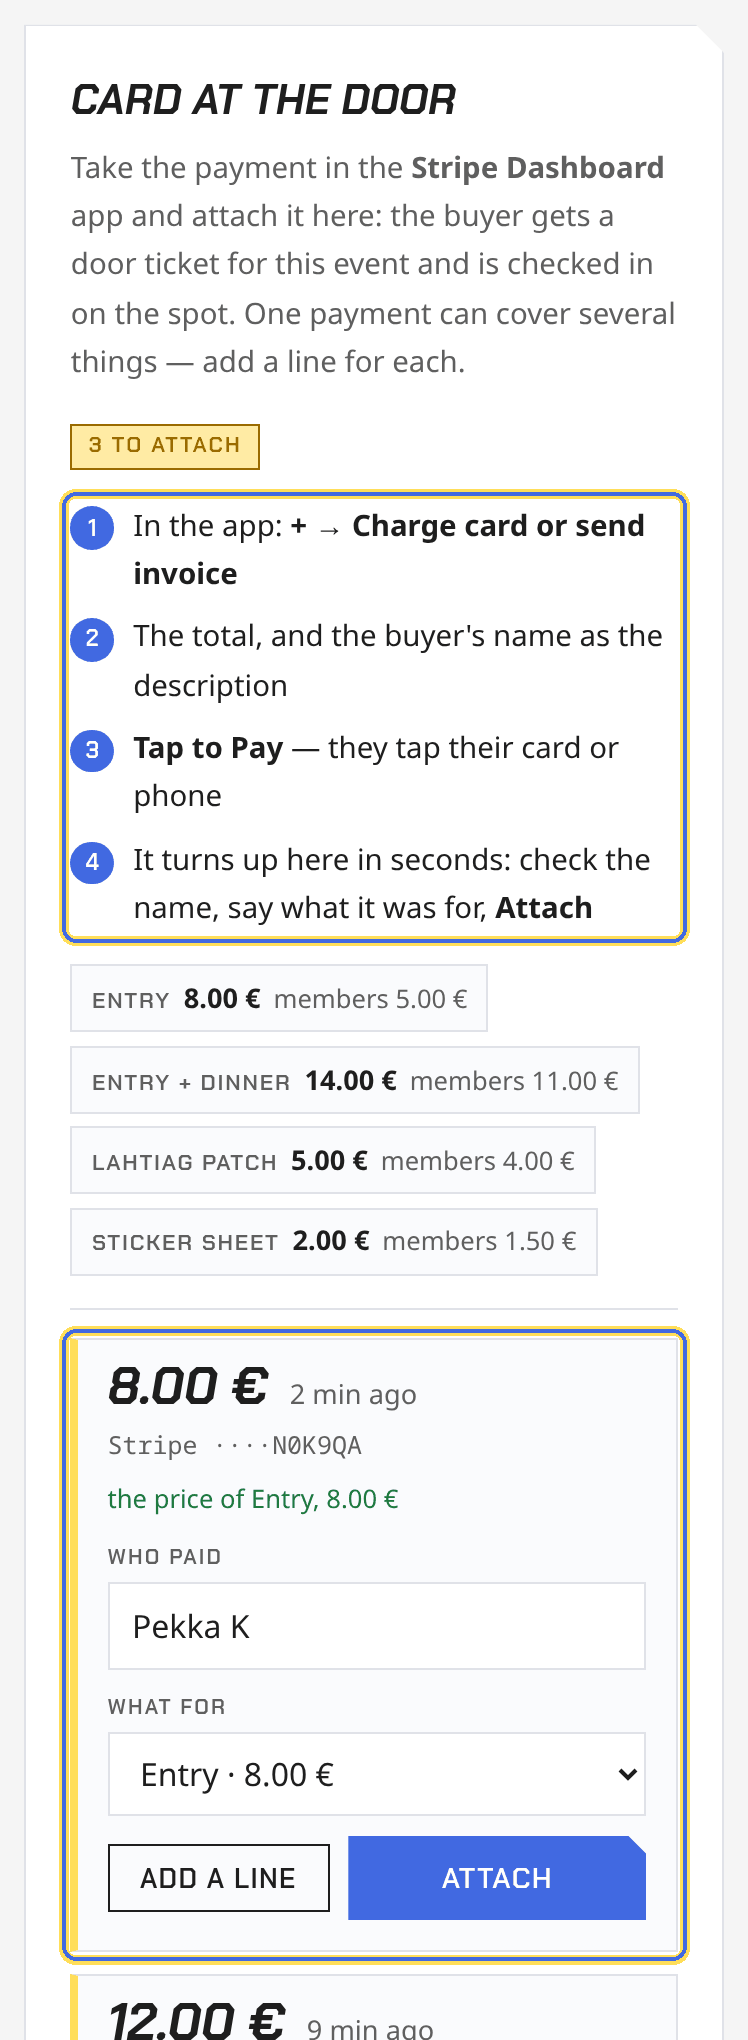
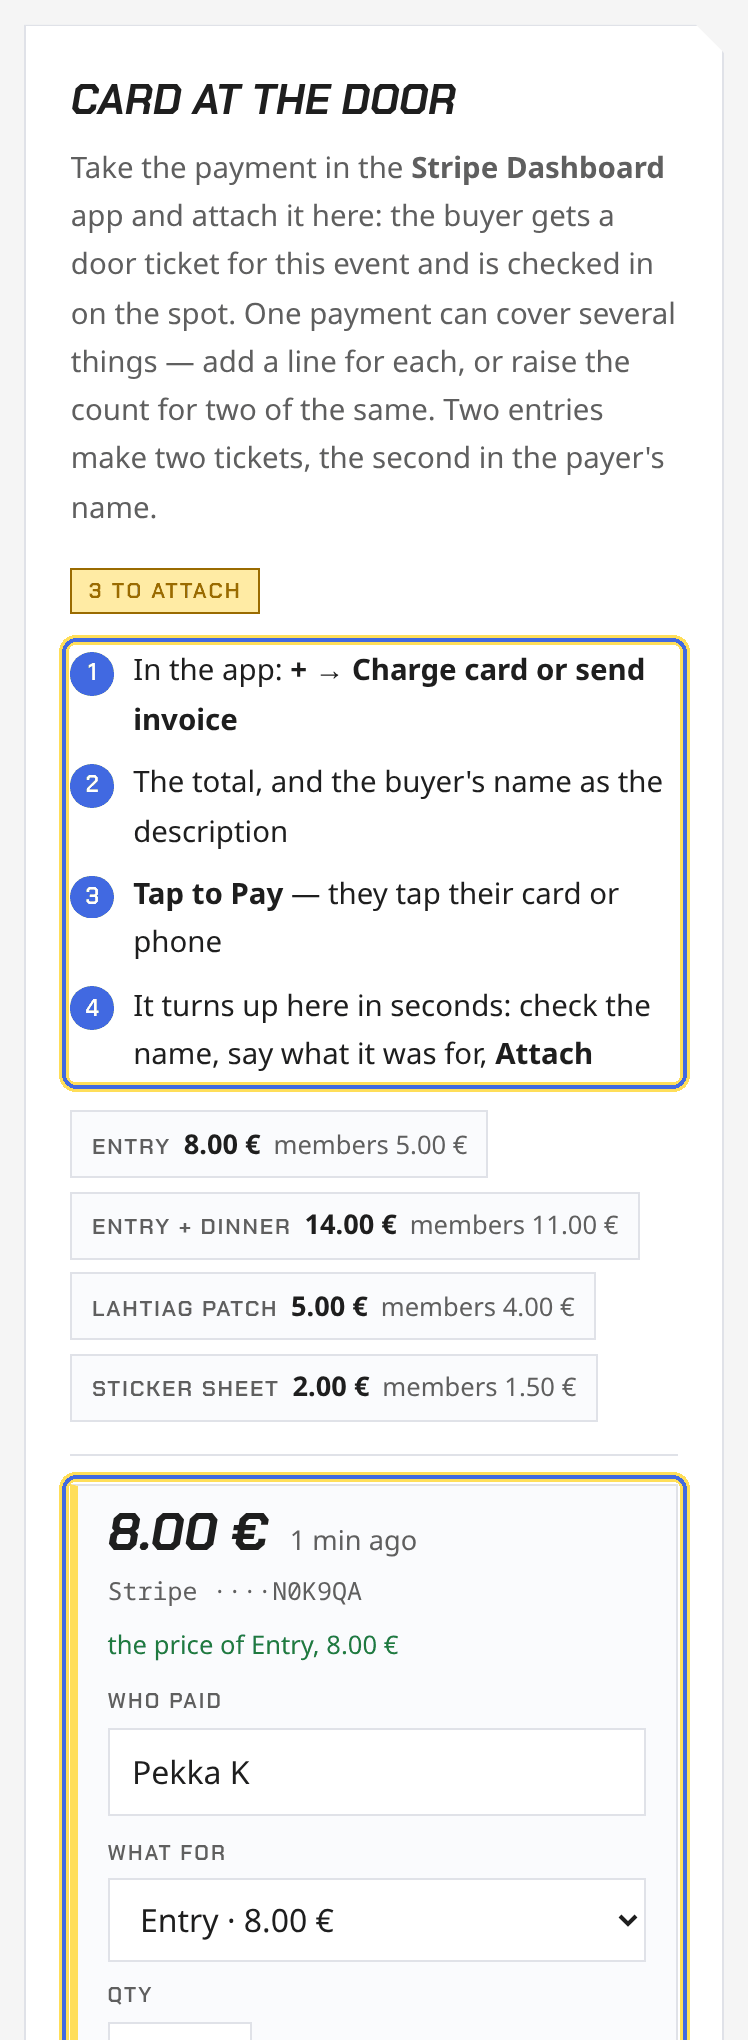
Two of the same on one line, at the price the board picked
"Two entries" was two lines; it is now a count on one, and the extras are
named after whoever paid (Leo H, Leo H +1) for the friend whose name
nobody wrote down. Ticket lines keep the count the item lines already had,
the running total multiplies by it, and a further ticket line still asks
for that person's name when it is known.

The members' price was already there and is worth saying out loud: every
price is its own choice in the list — "Entry · 8.00 €" and "Entry ·
members 5.00 €" — so a member's entry at the door is picked, not typed,
and the ticket records what was really charged. Two member entries and a
sticker sheet on one 12 € tap come out as two 5.00 € tickets, both checked
in, and a 2.00 € item handed over.

Claude-Session: https://claude.ai/code/session_019m4NkzFyEy3cwdh3cuTmAt

Changed region(s): [[0.0615, 0.1544, 0.9225, 1.0], [0.7995, 0.1544, 0.8302, 0.1853]]

diff --git a/test/purchases.test.ts b/test/purchases.test.ts
@@ -409,7 +409,7 @@ describe('a tapped payment for several things', () => {
     // An entry and a patch in one tap: a ticket at its price, a purchase for the rest.
     await recordDoorPayment(db(), 'pi_both', 1300, NOW, 'Pekka K');
     const both = await attach('pi_both', [
-      { kind: 'ticket', typeId, name: '', members: false },
+      { kind: 'ticket', typeId, name: '', members: false, quantity: 1 },
       { kind: 'item', productId: patchId, quantity: 1, members: false },
     ]);
     expect(both.tickets).toHaveLength(1);
@@ -424,8 +424,8 @@ describe('a tapped payment for several things', () => {
     // Two people, one card: a ticket each, the second by name.
     await recordDoorPayment(db(), 'pi_two', 1600, NOW, 'Pekka K');
     const two = await attach('pi_two', [
-      { kind: 'ticket', typeId, name: '', members: false },
-      { kind: 'ticket', typeId, name: ' Sanna  R ', members: false },
+      { kind: 'ticket', typeId, name: '', members: false, quantity: 1 },
+      { kind: 'ticket', typeId, name: ' Sanna  R ', members: false, quantity: 1 },
     ]);
     expect(two.tickets.map((t) => [t.holder_name, t.amount_cents])).toEqual([
       ['Pekka K', 800],
@@ -433,12 +433,25 @@ describe('a tapped payment for several things', () => {
     ]);
     expect(two.purchase).toBeNull();
 
+    // Two of the same, no second name given: the extra is the payer's.
+    await recordDoorPayment(db(), 'pi_pair', 1600, NOW, 'Leo H');
+    const pair = await attach('pi_pair', [{ kind: 'ticket', typeId, name: '', members: false, quantity: 2 }], 'Leo H');
+    expect(pair.tickets.map((t) => [t.holder_name, t.amount_cents])).toEqual([
+      ['Leo H', 800],
+      ['Leo H +1', 800],
+    ]);
+
+    // Two at the members' price, and the money still decides the total.
+    await recordDoorPayment(db(), 'pi_pair_m', 1000, NOW, 'Iida J');
+    const members = await attach('pi_pair_m', [{ kind: 'ticket', typeId, name: '', members: true, quantity: 2 }], 'Iida J');
+    expect(members.tickets.map((t) => t.amount_cents)).toEqual([500, 500]);
+
     // A members' price picked per line, and a total the list does not
     // reach: the difference lands on the first line, so the books match
     // the money Stripe took.
     await recordDoorPayment(db(), 'pi_member', 800, NOW, 'Iida J');
     const mixed = await attach('pi_member', [
-      { kind: 'ticket', typeId, name: '', members: true },
+      { kind: 'ticket', typeId, name: '', members: true, quantity: 1 },
       { kind: 'item', productId: patchId, quantity: 1, members: true },
     ], 'Iida J');
     expect(mixed.tickets[0].amount_cents).toBe(400); // 500 + 400 charged as 800
@@ -450,7 +463,7 @@ describe('a tapped payment for several things', () => {
     await expect(attach('pi_empty', [])).rejects.toMatchObject({ code: 'bad_input' });
     // A ticket type from another event is not this event's to sell.
     const other = await createTicketType(db(), await event(), { name: 'Elsewhere', price_cents: 500, member_price_cents: null, members_only: false, quantity: null, sales_close_at: null });
-    await expect(attach('pi_empty', [{ kind: 'ticket', typeId: other, name: '', members: false }])).rejects.toMatchObject({ code: 'missing' });
+    await expect(attach('pi_empty', [{ kind: 'ticket', typeId: other, name: '', members: false, quantity: 1 }])).rejects.toMatchObject({ code: 'missing' });
     expect((await listUnattachedDoorPayments(db(), NOW - 3600)).map((p) => p.stripe_payment_intent)).toEqual(['pi_empty']);
   });
 });

diff --git a/src/lib/purchases.ts b/src/lib/purchases.ts
@@ -496,7 +496,7 @@ export async function pendingPurchaseFor(db: D1Database, discordId: string, now:
 // those prices and the money goes on the first line, so the books add up
 // to what Stripe actually took.
 export type DoorLine =
-  | { kind: 'ticket'; typeId: number; name: string; members: boolean }
+  | { kind: 'ticket'; typeId: number; name: string; members: boolean; quantity: number }
   | { kind: 'item'; productId: number; quantity: number; members: boolean };
 
 export interface DoorAttachment {
@@ -518,7 +518,8 @@ export async function attachDoorPayment(
   if (!payment) throw new RuleError('missing', 'No unattached payment with that id.');
   if (input.lines.length === 0) throw new RuleError('bad_input', 'Say what the payment was for.');
   const buyerName = input.buyerName.replace(/\s+/g, ' ').trim().slice(0, 60) || 'Door sale';
-  const single = input.lines.length === 1;
+  const pieces = input.lines.reduce((sum, line) => sum + Math.max(1, line.quantity), 0);
+  const single = pieces === 1;
 
   // Everything is resolved and priced before anything is written.
   const planned: ({ cents: number } & (
@@ -530,8 +531,14 @@ export async function attachDoorPayment(
     if (line.kind === 'ticket') {
       const type = await getTicketType(db, line.typeId);
       if (!type || (input.eventId !== null && type.event_id !== input.eventId)) throw new RuleError('missing', 'No such ticket type on this event.');
+      if (!Number.isInteger(line.quantity) || line.quantity < 1) throw new RuleError('bad_input', 'Quantity is at least 1.');
       const list = line.members && type.member_price_cents !== null ? type.member_price_cents : type.price_cents;
-      planned.push({ kind: 'ticket', type, name: line.name.trim() || buyerName, cents: single ? payment.amount_cents : list });
+      const name = line.name.trim() || buyerName;
+      // Two entries on one card: one ticket each, the extras named after
+      // the person who paid for them, so the door list stays readable.
+      for (let i = 0; i < line.quantity; i++) {
+        planned.push({ kind: 'ticket', type, name: i === 0 ? name : `${name} +${i}`, cents: single ? payment.amount_cents : list });
+      }
       continue;
     }
     const product = await getProduct(db, line.productId, now);

diff --git a/test/tickets.test.ts b/test/tickets.test.ts
@@ -245,14 +245,14 @@ describe('ticket lifecycle', () => {
     await recordDoorPayment(db(), 'pi_tap', 1000, NOW, '  Walk  In ');
     await recordDoorPayment(db(), 'pi_tap', 1000, NOW); // idempotent
     expect((await listUnattachedDoorPayments(db(), NOW - 3600)).map((p) => [p.stripe_payment_intent, p.note])).toEqual([['pi_tap', 'Walk In']]);
-    const attached = await attachDoorPayment(db(), 'pi_tap', { eventId: id, lines: [{ kind: 'ticket', typeId, name: 'Walk In', members: false }], buyerName: 'Walk In', by: 'board@x' }, NOW + 5);
+    const attached = await attachDoorPayment(db(), 'pi_tap', { eventId: id, lines: [{ kind: 'ticket', typeId, name: 'Walk In', members: false, quantity: 1 }], buyerName: 'Walk In', by: 'board@x' }, NOW + 5);
     const ticket = attached.tickets[0];
     // One line takes the whole payment, whatever the list says.
     expect(ticket).toMatchObject({ status: 'paid', source: 'door', holder_name: 'Walk In', stripe_payment_intent: 'pi_tap', amount_cents: 1000 });
     expect(attached.purchase).toBeNull();
     expect(await listUnattachedDoorPayments(db(), NOW - 3600)).toEqual([]);
     await expect(
-      attachDoorPayment(db(), 'pi_tap', { eventId: id, lines: [{ kind: 'ticket', typeId, name: 'Again', members: false }], buyerName: 'Again', by: 'board@x' }, NOW),
+      attachDoorPayment(db(), 'pi_tap', { eventId: id, lines: [{ kind: 'ticket', typeId, name: 'Again', members: false, quantity: 1 }], buyerName: 'Again', by: 'board@x' }, NOW),
     ).rejects.toMatchObject({ code: 'missing' });
     // deleting the event takes its tickets, types and door payments with it
     await deleteEvent(db(), id);

diff --git a/src/lib/door.ts b/src/lib/door.ts
@@ -1,8 +1,8 @@
 // The door's attach form, read and reported. One payment can pay for
 // several things, so the form posts a line per thing: what it was
 // (`ticket:<id>`, `ticket:<id>:m` for the members' price, `item:<id>`,
-// `item:<id>:m`), a name for a ticket and a quantity for an item. The
-// shop's own page posts item lines only.
+// `item:<id>:m`), how many, and a name for the tickets. The shop's own
+// page posts item lines only.
 import type { DoorLine, DoorAttachment } from './purchases';
 
 export const MAX_DOOR_LINES = 8;
@@ -17,10 +17,10 @@ export function doorLines(form: FormData, buyerName: string, itemsOnly = false):
     const id = Number(idText);
     if (!Number.isInteger(id) || id < 1 || lines.length >= MAX_DOOR_LINES) return;
     const members = variant === 'm';
+    const quantity = Math.min(10, Math.max(1, Math.floor(Number(quantities[i])) || 1));
     if (kind === 'ticket' && !itemsOnly) {
-      lines.push({ kind: 'ticket', typeId: id, name: (names[i] ?? '').replace(/\s+/g, ' ').trim() || buyerName, members });
+      lines.push({ kind: 'ticket', typeId: id, name: (names[i] ?? '').replace(/\s+/g, ' ').trim() || buyerName, members, quantity });
     } else if (kind === 'item') {
-      const quantity = Math.min(10, Math.max(1, Math.floor(Number(quantities[i])) || 1));
       lines.push({ kind: 'item', productId: id, quantity, members });
     }
   });

diff --git a/test/door.test.ts b/test/door.test.ts
@@ -23,8 +23,14 @@ describe('the lines of an attach form', () => {
       'Pekka K',
     );
     expect(lines).toEqual([
-      { kind: 'ticket', typeId: 3, name: 'Pekka K', members: false },
+      { kind: 'ticket', typeId: 3, name: 'Pekka K', members: false, quantity: 1 },
       { kind: 'item', productId: 7, quantity: 3, members: true },
+    ]);
+  });
+
+  it('counts two of the same on one line', () => {
+    expect(doorLines(form([['line_what', 'ticket:3'], ['line_name', ''], ['line_qty', '2']]), 'Pekka K')).toEqual([
+      { kind: 'ticket', typeId: 3, name: 'Pekka K', members: false, quantity: 2 },
     ]);
   });
 
@@ -47,7 +53,7 @@ describe('the lines of an attach form', () => {
       'Pekka K',
     );
     expect(lines).toEqual([
-      { kind: 'ticket', typeId: 3, name: 'Sanna R', members: true },
+      { kind: 'ticket', typeId: 3, name: 'Sanna R', members: true, quantity: 1 },
       { kind: 'item', productId: 7, quantity: 10, members: false },
     ]);
   });

diff --git a/docs/OPERATIONS.md b/docs/OPERATIONS.md
@@ -720,17 +720,21 @@ appears for a shop item.
 
 **One tap, several things.** A payment can pay for more than one thing —
 an entry and a patch, two entries for two people, three sticker sheets and
-a hoodie. **Add a line** gives the payment another line: what it was (every
-price is its own choice in the list, the members' price included), a name
-for a ticket line beyond the first, a quantity for an item line. The line
-total is shown against what was charged, so a mistyped quantity is visible
-before anything is attached. Attaching then makes a door ticket per ticket
-line (each checked in, named) and one paid purchase holding the item lines,
+a hoodie. Every line has what it was and how many: **every price is its own
+choice in the list**, the members' price included, so a member's entry at
+the door is picked, not typed. **Add a line** gives the payment another
+line, and a further ticket line asks for that person's name. A count of two
+on one ticket line is two tickets, the extras named after the payer (`Leo
+H`, `Leo H +1`), for the friend whose name nobody wrote down. The line
+total is shown against what was charged, so a mistyped count is visible
+before anything is attached. Attaching makes a door ticket per ticket
+(each checked in, named) and one paid purchase holding the item lines,
 handed over on the spot; both hang off the same payment. Without
 JavaScript the form keeps its single line, which is the everyday case.
 
-The money is the last word: with one line, that line is worth the whole
-payment (a member's price the board typed by hand included). With several,
+The money is the last word: a payment for a single ticket or piece is
+worth the whole payment, whatever the list says (an odd amount the board
+typed by hand included). With several,
 each line is worth the price picked, and whatever they miss the payment by
 lands on the first line — so tickets plus items always add up to what
 Stripe took (`attachDoorPayment` in `src/lib/purchases.ts`, the form read

diff --git a/docs/BOARD-GUIDE.md b/docs/BOARD-GUIDE.md
@@ -321,13 +321,15 @@ On a phone it does everything:
   up in it by itself within seconds — the name already filled in.
   lahtiag.fi/board says how many payments are waiting, and the shop's
   **Items to hand over** page attaches the ones that were shop sales.
-- **One card, several things.** Charge the total in the app, then press
-  **Add a line** for each thing it paid for: two entries for two people
-  (the second line asks for their name), an entry and a patch, three
-  sticker sheets. Each line picks its own price, members' price included,
-  and the box says whether the lines add up to what was charged. Everyone
-  gets their ticket, the items are marked handed over, all from the one
-  payment.
+- **One card, several things.** Charge the total in the app, then say what
+  it was for, a line at a time: raise the **count** for two of the same
+  (two entries make two tickets, the second in the payer's name), or press
+  **Add a line** for something else — an entry and a patch, three sticker
+  sheets. A further ticket line asks for that person's name.
+- **Members' price.** Each line picks its own price from the list, the
+  members' price included, so a member's entry is picked rather than typed.
+  The box says whether the lines add up to what was charged. Everyone gets
+  their ticket, the items are marked handed over, all from the one payment.
 - **No scanner?** The holder presses "Mark as used" on their ticket in
   front of you; the ticket then shows the **mark of the day**, an icon
   that changes daily and is shown on the door page too, so a screenshot
